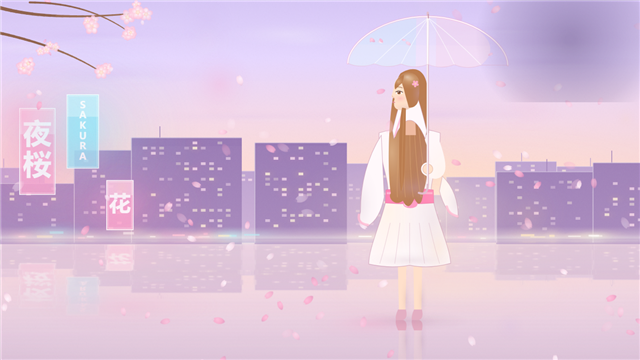
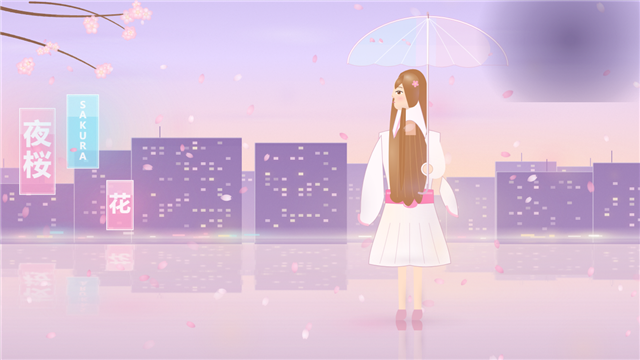
screensaver: 樱花霓虹修灯箱裁字（SAKURA 完整显示），重新登记清单

diff --git a/screensaver/neon-umbrella/app.js b/screensaver/neon-umbrella/app.js
@@ -98,9 +98,9 @@
     var c = makeCanvas(400, 280);
     var x = c.getContext('2d');
     var gr = x.createRadialGradient(200, 140, 12, 200, 140, 200);
-    gr.addColorStop(0, 'rgba(84,64,116,0.46)');
-    gr.addColorStop(0.45, 'rgba(96,76,130,0.30)');
-    gr.addColorStop(0.75, 'rgba(104,86,132,0.18)');
+    gr.addColorStop(0, 'rgba(76,58,108,0.64)');
+    gr.addColorStop(0.45, 'rgba(88,70,122,0.44)');
+    gr.addColorStop(0.75, 'rgba(96,80,128,0.24)');
     gr.addColorStop(1, 'rgba(120,104,148,0)');
     x.fillStyle = gr;
     x.fillRect(0, 0, 400, 280);
